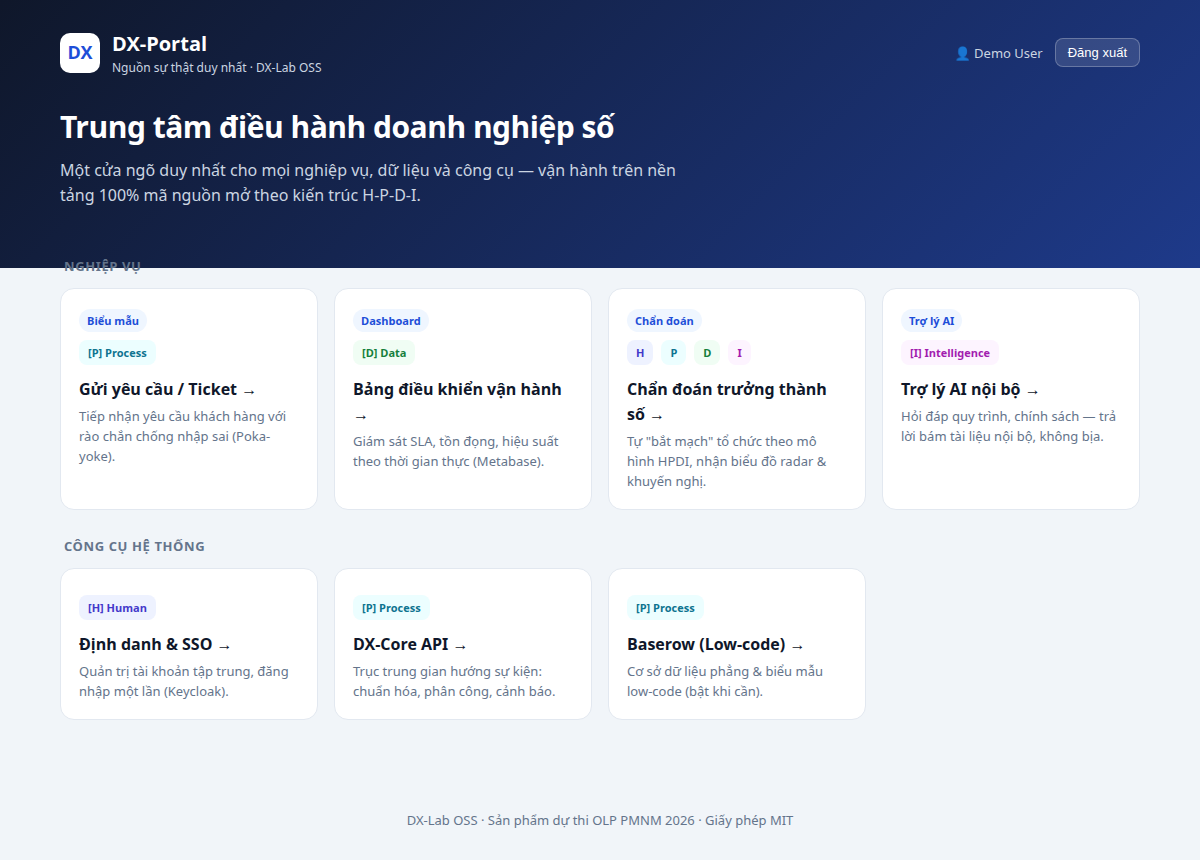
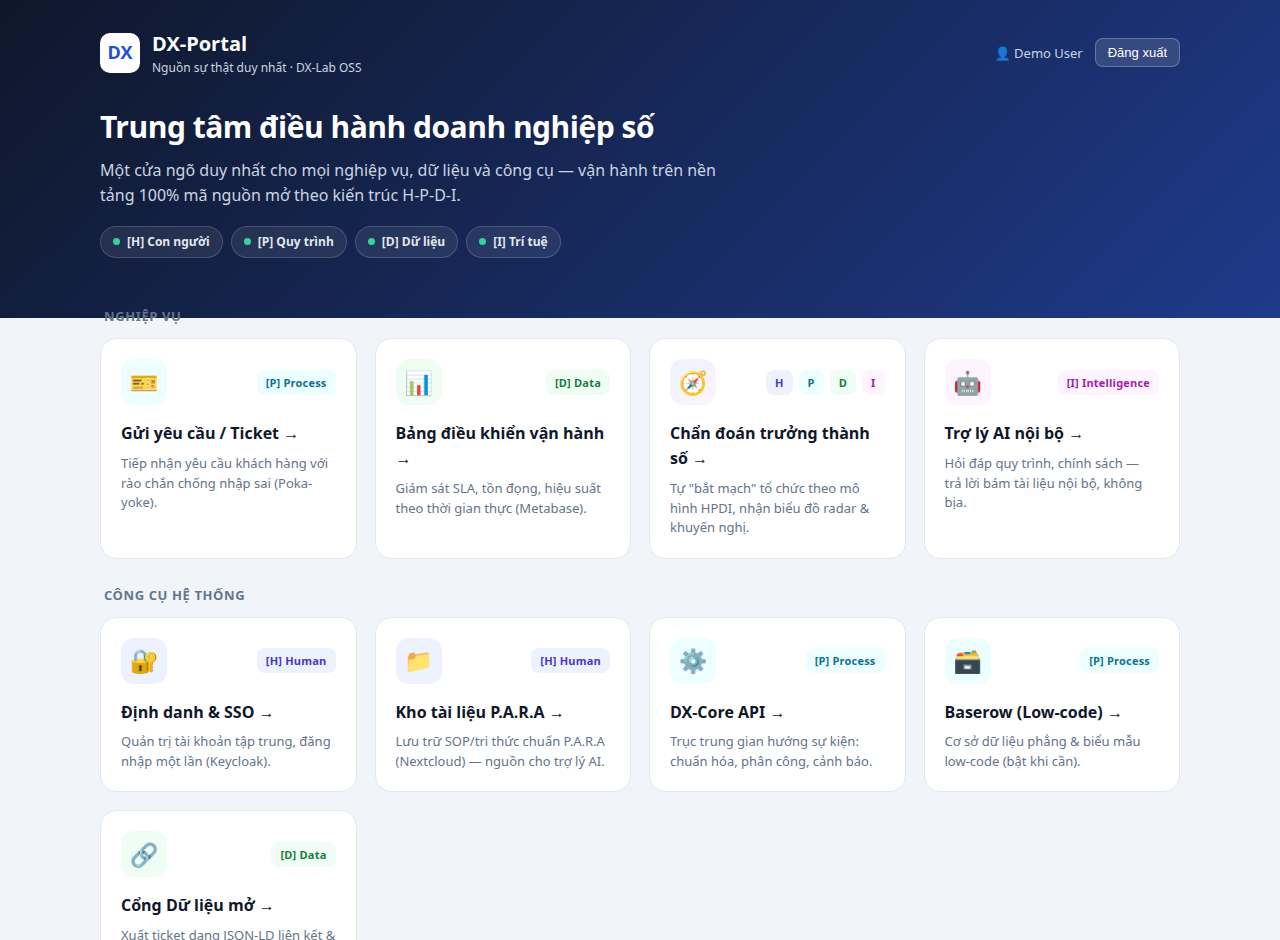
style(dx-portal): làm mới giao diện trang chủ
- Thẻ có icon màu theo không gian H/P/D/I, viền nhấn khi hover
- Dải trạng thái H-P-D-I trên header
- Refactor thẻ dùng mảng dữ liệu + component Card (gọn, dễ bảo trì)
- Cập nhật ảnh demo docs/images/01-portal-home.png

diff --git a/src/dx-portal/app/page.tsx b/src/dx-portal/app/page.tsx
@@ -3,6 +3,60 @@ import Link from "next/link";
 import { links } from "./links";
 import { UserMenu } from "./UserMenu";
 
+type Space = "h" | "p" | "d" | "i" | "hpdi";
+interface CardItem {
+  icon: string; space: Space; badge: React.ReactNode;
+  title: string; desc: string; href: string; external?: boolean;
+}
+
+const badge = (s: Exclude<Space, "hpdi">, label: string) => (
+  <span className={`badge ${s}`}>{label}</span>
+);
+
+const nghiepVu: CardItem[] = [
+  { icon: "🎫", space: "p", badge: badge("p", "[P] Process"), href: "/ticket",
+    title: "Gửi yêu cầu / Ticket", desc: "Tiếp nhận yêu cầu khách hàng với rào chắn chống nhập sai (Poka-yoke)." },
+  { icon: "📊", space: "d", badge: badge("d", "[D] Data"), href: links.metabase, external: true,
+    title: "Bảng điều khiển vận hành", desc: "Giám sát SLA, tồn đọng, hiệu suất theo thời gian thực (Metabase)." },
+  { icon: "🧭", space: "hpdi", href: "/diag",
+    badge: (<span className="space-badges"><span className="badge h">H</span><span className="badge p">P</span><span className="badge d">D</span><span className="badge i">I</span></span>),
+    title: "Chẩn đoán trưởng thành số", desc: 'Tự "bắt mạch" tổ chức theo mô hình HPDI, nhận biểu đồ radar & khuyến nghị.' },
+  { icon: "🤖", space: "i", badge: badge("i", "[I] Intelligence"), href: "/assistant",
+    title: "Trợ lý AI nội bộ", desc: "Hỏi đáp quy trình, chính sách — trả lời bám tài liệu nội bộ, không bịa." },
+];
+
+const congCu: CardItem[] = [
+  { icon: "🔐", space: "h", badge: badge("h", "[H] Human"), href: links.keycloak, external: true,
+    title: "Định danh & SSO", desc: "Quản trị tài khoản tập trung, đăng nhập một lần (Keycloak)." },
+  { icon: "📁", space: "h", badge: badge("h", "[H] Human"), href: links.nextcloud, external: true,
+    title: "Kho tài liệu P.A.R.A", desc: "Lưu trữ SOP/tri thức chuẩn P.A.R.A (Nextcloud) — nguồn cho trợ lý AI." },
+  { icon: "⚙", space: "p", badge: badge("p", "[P] Process"), href: links.dxCoreDocs, external: true,
+    title: "DX-Core API", desc: "Trục trung gian hướng sự kiện: chuẩn hóa, phân công, cảnh báo." },
+  { icon: "🗃", space: "p", badge: badge("p", "[P] Process"), href: links.baserow, external: true,
+    title: "Baserow (Low-code)", desc: "Cơ sở dữ liệu phẳng & biểu mẫu low-code (bật khi cần)." },
+  { icon: "🔗", space: "d", badge: badge("d", "[D] Data"), href: links.openData, external: true,
+    title: "Cổng Dữ liệu mở", desc: "Xuất ticket dạng JSON-LD liên kết & CSV (DCAT, đã ẩn dữ liệu cá nhân)." },
+];
+
+function Card({ item }: { item: CardItem }) {
+  const inner = (
+    <>
+      <div className="card-top">
+        <div className="card-icon">{item.icon}</div>
+        {item.badge}
+      </div>
+      <h3>{item.title} →</h3>
+      <p>{item.desc}</p>
+    </>
+  );
+  const cls = `card ${item.space}`;
+  return item.external ? (
+    <a className={cls} href={item.href} target="_blank" rel="noreferrer">{inner}</a>
+  ) : (
+    <Link className={cls} href={item.href}>{inner}</Link>
+  );
+}
+
 export default function Home() {
   return (
     <>
@@ -24,6 +78,12 @@ export default function Home() {
               Một cửa ngõ duy nhất cho mọi nghiệp vụ, dữ liệu và công cụ — vận hành
               trên nền tảng 100% mã nguồn mở theo kiến trúc H-P-D-I.
             </p>
+            <div className="hpdi-pills">
+              <span className="hpdi-pill"><span className="dot" /> [H] Con người</span>
+              <span className="hpdi-pill"><span className="dot" /> [P] Quy trình</span>
+              <span className="hpdi-pill"><span className="dot" /> [D] Dữ liệu</span>
+              <span className="hpdi-pill"><span className="dot" /> [I] Trí tuệ</span>
+            </div>
           </div>
         </div>
       </header>
@@ -32,65 +92,12 @@ export default function Home() {
         <div className="container">
           <div className="section-title">Nghiệp vụ</div>
           <div className="grid">
-            <Link className="card" href="/ticket">
-              <span className="tag">Biểu mẫu</span>
-              <div className="space-badges"><span className="badge p">[P] Process</span></div>
-              <h3>Gửi yêu cầu / Ticket →</h3>
-              <p>Tiếp nhận yêu cầu khách hàng với rào chắn chống nhập sai (Poka-yoke).</p>
-            </Link>
-
-            <a className="card" href={links.metabase} target="_blank" rel="noreferrer">
-              <span className="tag">Dashboard</span>
-              <div className="space-badges"><span className="badge d">[D] Data</span></div>
-              <h3>Bảng điều khiển vận hành →</h3>
-              <p>Giám sát SLA, tồn đọng, hiệu suất theo thời gian thực (Metabase).</p>
-            </a>
-
-            <Link className="card" href="/diag">
-              <span className="tag">Chẩn đoán</span>
-              <div className="space-badges">
-                <span className="badge h">H</span><span className="badge p">P</span>
-                <span className="badge d">D</span><span className="badge i">I</span>
-              </div>
-              <h3>Chẩn đoán trưởng thành số →</h3>
-              <p>Tự "bắt mạch" tổ chức theo mô hình HPDI, nhận biểu đồ radar &amp; khuyến nghị.</p>
-            </Link>
-
-            <Link className="card" href="/assistant">
-              <span className="tag">Trợ lý AI</span>
-              <div className="space-badges"><span className="badge i">[I] Intelligence</span></div>
-              <h3>Trợ lý AI nội bộ →</h3>
-              <p>Hỏi đáp quy trình, chính sách — trả lời bám tài liệu nội bộ, không bịa.</p>
-            </Link>
+            {nghiepVu.map((it) => <Card key={it.title} item={it} />)}
           </div>
 
           <div className="section-title">Công cụ hệ thống</div>
           <div className="grid">
-            <a className="card" href={links.keycloak} target="_blank" rel="noreferrer">
-              <div className="space-badges"><span className="badge h">[H] Human</span></div>
-              <h3>Định danh & SSO →</h3>
-              <p>Quản trị tài khoản tập trung, đăng nhập một lần (Keycloak).</p>
-            </a>
-            <a className="card" href={links.nextcloud} target="_blank" rel="noreferrer">
-              <div className="space-badges"><span className="badge h">[H] Human</span></div>
-              <h3>Kho tài liệu P.A.R.A →</h3>
-              <p>Lưu trữ SOP/tri thức chuẩn P.A.R.A (Nextcloud) — nguồn cho trợ lý AI.</p>
-            </a>
-            <a className="card" href={links.dxCoreDocs} target="_blank" rel="noreferrer">
-              <div className="space-badges"><span className="badge p">[P] Process</span></div>
-              <h3>DX-Core API →</h3>
-              <p>Trục trung gian hướng sự kiện: chuẩn hóa, phân công, cảnh báo.</p>
-            </a>
-            <a className="card" href={links.baserow} target="_blank" rel="noreferrer">
-              <div className="space-badges"><span className="badge p">[P] Process</span></div>
-              <h3>Baserow (Low-code) →</h3>
-              <p>Cơ sở dữ liệu phẳng &amp; biểu mẫu low-code (bật khi cần).</p>
-            </a>
-            <a className="card" href={links.openData} target="_blank" rel="noreferrer">
-              <div className="space-badges"><span className="badge d">[D] Data</span></div>
-              <h3>Cổng Dữ liệu mở →</h3>
-              <p>Xuất ticket dạng JSON-LD liên kết &amp; CSV (DCAT, đã ẩn dữ liệu cá nhân).</p>
-            </a>
+            {congCu.map((it) => <Card key={it.title} item={it} />)}
           </div>
         </div>
       </main>

diff --git a/src/dx-portal/app/globals.css b/src/dx-portal/app/globals.css
@@ -45,24 +45,51 @@ a { color: inherit; text-decoration: none; }
 .section-title { font-size: 13px; font-weight: 700; text-transform: uppercase;
   letter-spacing: 0.6px; color: var(--muted); margin: 26px 4px 12px; }
 
-.grid { display: grid; grid-template-columns: repeat(auto-fill, minmax(230px, 1fr)); gap: 16px; }
+.grid { display: grid; grid-template-columns: repeat(auto-fill, minmax(250px, 1fr)); gap: 18px; }
 .card {
+  position: relative; overflow: hidden;
   background: var(--card); border: 1px solid var(--line);
-  border-radius: var(--radius); padding: 18px; transition: .15s;
-  display: block;
+  border-radius: 16px; padding: 20px;
+  transition: transform .18s ease, box-shadow .18s ease, border-color .18s ease;
+  display: flex; flex-direction: column; gap: 6px;
 }
-.card:hover { transform: translateY(-2px); box-shadow: 0 10px 30px rgba(2,6,23,.08); border-color: #cbd5e1; }
-.card .tag { display: inline-block; font-size: 11px; font-weight: 700; padding: 3px 8px;
-  border-radius: 999px; background: #eff6ff; color: var(--brand-ink); }
-.card h3 { font-size: 16px; margin: 12px 0 4px; }
-.card p { font-size: 13px; color: var(--muted); }
+.card::before {
+  content: ""; position: absolute; left: 0; top: 0; bottom: 0; width: 3px;
+  background: var(--accent, var(--brand)); opacity: 0; transition: opacity .18s;
+}
+.card:hover { transform: translateY(-3px); box-shadow: 0 14px 30px rgba(2,6,23,.10); border-color: #cbd5e1; }
+.card:hover::before { opacity: 1; }
+.card:hover h3 { color: var(--accent, var(--brand-ink)); }
+.card-top { display: flex; align-items: center; justify-content: space-between; margin-bottom: 8px; }
+.card-icon {
+  width: 46px; height: 46px; border-radius: 13px; flex-shrink: 0;
+  display: grid; place-items: center; font-size: 23px; background: #f1f5f9;
+}
+.card h3 { font-size: 16px; margin: 2px 0; transition: color .18s; }
+.card p { font-size: 13px; color: var(--muted); line-height: 1.5; }
 
-.space-badges { display: flex; gap: 8px; flex-wrap: wrap; margin-top: 8px; }
-.badge { font-size: 11px; font-weight: 700; padding: 4px 9px; border-radius: 8px; }
+.card.h  { --accent:#4338ca; } .card.h  .card-icon { background:#eef2ff; }
+.card.p  { --accent:#0e7490; } .card.p  .card-icon { background:#ecfeff; }
+.card.d  { --accent:#15803d; } .card.d  .card-icon { background:#f0fdf4; }
+.card.i  { --accent:#a21caf; } .card.i  .card-icon { background:#fdf4ff; }
+.card.hpdi { --accent:#2563eb; } .card.hpdi .card-icon { background: linear-gradient(135deg,#eef2ff,#fdf4ff); }
+
+.space-badges { display: flex; gap: 6px; flex-wrap: wrap; }
+.badge { font-size: 11px; font-weight: 700; padding: 4px 9px; border-radius: 8px; letter-spacing: .2px; }
 .badge.h { background:#eef2ff; color:#4338ca; }
 .badge.p { background:#ecfeff; color:#0e7490; }
 .badge.d { background:#f0fdf4; color:#15803d; }
 .badge.i { background:#fdf4ff; color:#a21caf; }
+
+/* Dải trạng thái H-P-D-I trên header */
+.hpdi-pills { display: flex; gap: 8px; margin-top: 18px; flex-wrap: wrap; }
+.hpdi-pill {
+  display: inline-flex; align-items: center; gap: 7px;
+  background: rgba(255,255,255,.08); border: 1px solid rgba(255,255,255,.16);
+  color: #e2e8f0; font-size: 12px; font-weight: 600;
+  padding: 6px 12px; border-radius: 999px;
+}
+.hpdi-pill .dot { width: 7px; height: 7px; border-radius: 50%; background: #34d399; }
 
 /* Form */
 .panel { background: var(--card); border: 1px solid var(--line);
